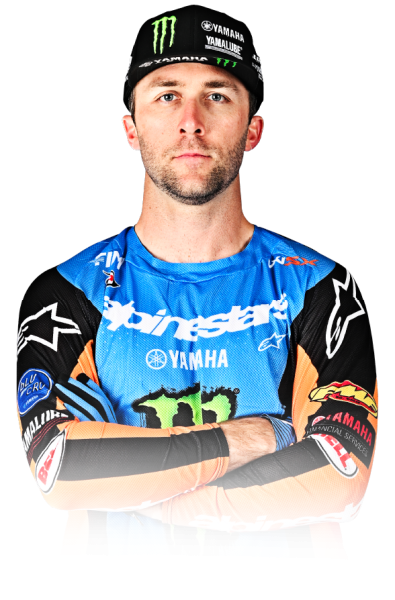
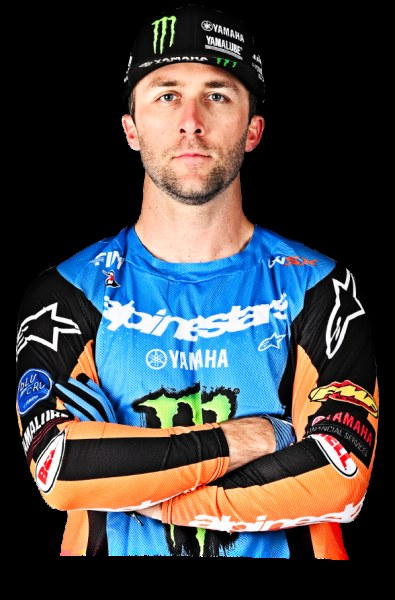
Refresh WSX rider portraits from the official championship site.
Download 2026 rider cards into static/riders/wsx and add a reusable sync script; Crockett Myers still has only a silhouette on WSX.

diff --git a/tools/download_wsx_rider_portraits.py b/tools/download_wsx_rider_portraits.py
@@ -1,0 +1,302 @@
+"""Download WSX rider cards from worldsupercrosschampionship.com into static/riders/wsx/.
+
+Also sets Rider.image_url for official WSX 2026 roster rows (local DB).
+"""
+from __future__ import annotations
+
+import os
+import re
+import sys
+import urllib.request
+from html import unescape
+from pathlib import Path
+from urllib.error import HTTPError, URLError
+
+os.environ.setdefault("PYTHONUTF8", "1")
+os.environ.setdefault("FLASK_ENV", "development")
+os.environ.setdefault("DATABASE_URL", "sqlite:///fantasy_mx_local.db")
+os.environ.pop("RENDER", None)
+
+BASE = "https://worldsupercrosschampionship.com"
+RIDERS_URL = f"{BASE}/riders/"
+OUT_DIR = Path("static/riders/wsx")
+UA = (
+    "Mozilla/5.0 (Windows NT 10.0; Win64; x64) AppleWebKit/537.36 "
+    "(KHTML, like Gecko) Chrome/124.0.0.0 Safari/537.36"
+)
+
+# Skip placeholders / non-rider media
+SKIP_NAME_FRAGMENTS = (
+    "silhouette",
+    "logo",
+    "asset-",
+    "g891",
+    "tc_logo",
+)
+
+# Official roster names we care about (match main._WSX_2026_ROSTER)
+ROSTER_NAMES = {
+    "Cooper Webb",
+    "Justin Hill",
+    "Joey Savatgy",
+    "Christian Craig",
+    "Jason Anderson",
+    "Colt Nichols",
+    "Vince Friese",
+    "Jorge Zaragoza",
+    "Greg Aranda",
+    "Kevin Moranz",
+    "Austin Politelli",
+    "Enzo Lopes",
+    "Luke Clout",
+    "Mitchell Harrison",
+    "Maxime Desprey",
+    "Jordi Tixier",
+    "Max Anstie",
+    "Devin Simonson",
+    "Shane McElrath",
+    "Cole Thompson",
+    "Calvin Fonvieille",
+    "Ryan Breece",
+    "Robbie Wageman",
+    "Henry Miller",
+    "Jake Cannon",
+    "Michael Hicks",
+    "Brian Hsu",
+    "Kyle Peters",
+    "Crockett Myers",
+    "Hector Assuncao",
+    "Nico Koch",
+    "Mike Alessi",
+    "Tom Vialle",
+    # On site but not in tippa roster — still download if present
+    "Cameron McAdoo",
+    "Brodie Connolly",
+}
+
+# Alternate spellings on WSX site → our DB name
+NAME_ALIASES = {
+    "hector assunção": "Hector Assuncao",
+    "hector assuncao": "Hector Assuncao",
+    "cameron mcadoo": "Cameron McAdoo",
+}
+
+
+def slug_nospace(name: str) -> str:
+    nl = (name or "").lower().strip().replace(".", "")
+    return "".join(c for c in nl if c.isalnum())
+
+
+def normalize_name(raw: str) -> str:
+    s = re.sub(r"\s+", " ", (raw or "").strip())
+    # Title case if jammed together: JasonAnderson → Jason Anderson
+    if " " not in s and re.search(r"[a-z][A-Z]", s):
+        s = re.sub(r"([a-z])([A-Z])", r"\1 \2", s)
+    key = s.lower()
+    if key in NAME_ALIASES:
+        return NAME_ALIASES[key]
+    # Match roster ignoring accents / punctuation
+    def fold(x: str) -> str:
+        x = x.lower()
+        for a, b in (("ã", "a"), ("á", "a"), ("ç", "c"), ("é", "e"), ("í", "i"), ("ó", "o"), ("ú", "u")):
+            x = x.replace(a, b)
+        return re.sub(r"[^a-z0-9]", "", x)
+
+    folded = fold(s)
+    for official in ROSTER_NAMES:
+        if fold(official) == folded:
+            return official
+    return s
+
+
+def fetch(url: str) -> bytes:
+    req = urllib.request.Request(url, headers={"User-Agent": UA, "Accept": "*/*"})
+    with urllib.request.urlopen(req, timeout=60) as resp:
+        return resp.read()
+
+
+def abs_url(u: str) -> str:
+    u = unescape(u.strip())
+    if u.startswith("//"):
+        return "https:" + u
+    if u.startswith("/"):
+        return BASE + u
+    return u
+
+
+def fullsize_candidates(url: str) -> list[str]:
+    """Prefer original upload over WP resized -396x600 variants."""
+    out: list[str] = []
+    u = abs_url(url)
+    out.append(u)
+    stripped = re.sub(r"-\d+x\d+(?=\.(?:png|jpe?g|webp))", "", u, flags=re.I)
+    if stripped != u:
+        out.insert(0, stripped)
+    # also try .jpg if .png card
+    return list(dict.fromkeys(out))
+
+
+def parse_rider_cards(html: str) -> dict[str, str]:
+    """name -> headshot URL from riders listing."""
+    mapping: dict[str, str] = {}
+    # Each rider-entry article
+    for block in re.findall(
+        r'<article[^>]*class="[^"]*rider-entry[^"]*"[\s\S]*?</article>',
+        html,
+        flags=re.I,
+    ):
+        title_m = re.search(r'title="([^"]+)"', block)
+        name_m = re.search(
+            r'class="rider-entry-name[^"]*"[^>]*>\s*<[^>]+>\s*([^<]+)',
+            block,
+            flags=re.I,
+        )
+        # fallback: permalink title or h3 text
+        name = None
+        if title_m:
+            name = title_m.group(1)
+        if not name and name_m:
+            name = name_m.group(1)
+        if not name:
+            h = re.search(r"<h[123][^>]*>(.*?)</h[123]>", block, flags=re.I | re.S)
+            if h:
+                name = re.sub(r"<[^>]+>", "", h.group(1))
+        if not name:
+            continue
+        name = normalize_name(unescape(name))
+
+        img_m = re.search(
+            r'class="rider-entry-headshot"[^>]*>\s*<img[^>]+src="([^"]+)"',
+            block,
+            flags=re.I,
+        )
+        if not img_m:
+            img_m = re.search(
+                r'rider-entry-headshot[\s\S]{0,400}?src="([^"]+\.(?:png|jpe?g|webp)[^"]*)"',
+                block,
+                flags=re.I,
+            )
+        if not img_m:
+            continue
+        src = abs_url(img_m.group(1))
+        low = src.lower()
+        if any(s in low for s in SKIP_NAME_FRAGMENTS):
+            # Keep silhouette mapped only if we have nothing else — mark skip
+            continue
+        mapping[name] = src
+    return mapping
+
+
+def download_best(url: str) -> tuple[bytes, str] | None:
+    last_err = None
+    for cand in fullsize_candidates(url):
+        try:
+            data = fetch(cand)
+            if len(data) < 2000:
+                continue
+            # Always store as real JPEG for `slug (1).jpg` convention
+            from io import BytesIO
+
+            from PIL import Image
+
+            im = Image.open(BytesIO(data)).convert("RGB")
+            buf = BytesIO()
+            im.save(buf, format="JPEG", quality=88, optimize=True)
+            return buf.getvalue(), ".jpg"
+        except (HTTPError, URLError, TimeoutError, OSError) as e:
+            last_err = e
+            continue
+    if last_err:
+        print(f"  [fail] {url}: {last_err}")
+    return None
+
+
+def main() -> int:
+    print(f"Fetching {RIDERS_URL} ...")
+    html = fetch(RIDERS_URL).decode("utf-8", "replace")
+    cards = parse_rider_cards(html)
+    print(f"Parsed {len(cards)} rider cards with photos")
+    for n, u in sorted(cards.items()):
+        print(f"  {n}: {u}")
+
+    OUT_DIR.mkdir(parents=True, exist_ok=True)
+    saved: dict[str, str] = {}  # name -> relative path riders/wsx/...
+
+    for name, url in sorted(cards.items()):
+        slug = slug_nospace(name)
+        # Keep app convention: "<slug> (1).jpg" (even for png source — convert name)
+        # Prefer writing actual extension that browsers accept; frontend tries .jpg first
+        # so we save as .jpg filename when possible by keeping png bytes under .jpg only if jpeg,
+        # else save real ext AND a (1).jpg copy isn't needed if we also set image_url.
+        result = download_best(url)
+        if not result:
+            print(f"[SKIP] no image for {name}")
+            continue
+        data, ext = result
+        primary = OUT_DIR / f"{slug} (1).jpg"
+        primary.write_bytes(data)
+        # Drop legacy numbered variants so tippa always hits the new (1).jpg
+        for old in OUT_DIR.glob(f"{slug} (*).*"):
+            if old.resolve() != primary.resolve():
+                try:
+                    old.unlink()
+                except OSError:
+                    pass
+        # Drop underscore-slug duplicate (cole_thompson vs colethompson)
+        underscore = "".join(
+            c if c.isalnum() else "_" for c in name.lower().replace(".", "")
+        ).strip("_")
+        underscore = re.sub(r"_+", "_", underscore)
+        if underscore and underscore != slug:
+            for old in OUT_DIR.glob(f"{underscore} (*).*"):
+                try:
+                    old.unlink()
+                except OSError:
+                    pass
+        rel = f"riders/wsx/{slug} (1).jpg"
+        saved[name] = rel
+        print(f"[OK] {name} -> {primary.name} ({len(data)} bytes)")
+
+    missing_roster = sorted(n for n in ROSTER_NAMES if n not in saved and n in {
+        "Cooper Webb", "Justin Hill", "Joey Savatgy", "Christian Craig", "Jason Anderson",
+        "Colt Nichols", "Vince Friese", "Jorge Zaragoza", "Greg Aranda", "Kevin Moranz",
+        "Austin Politelli", "Enzo Lopes", "Luke Clout", "Mitchell Harrison", "Maxime Desprey",
+        "Jordi Tixier", "Max Anstie", "Devin Simonson", "Shane McElrath", "Cole Thompson",
+        "Calvin Fonvieille", "Ryan Breece", "Robbie Wageman", "Henry Miller", "Jake Cannon",
+        "Michael Hicks", "Brian Hsu", "Kyle Peters", "Crockett Myers", "Hector Assuncao",
+        "Nico Koch", "Mike Alessi", "Tom Vialle",
+    })
+    print("\nRoster without WSX site photo:", ", ".join(missing_roster) or "(none)")
+
+    # Update local DB image_url for WSX riders
+    root = Path(__file__).resolve().parents[1]
+    if str(root) not in sys.path:
+        sys.path.insert(0, str(root))
+    from main import app
+    from models import Rider, db
+
+    updated = 0
+    with app.app_context():
+        for name, rel in saved.items():
+            rows = (
+                Rider.query.filter(
+                    Rider.name == name,
+                    Rider.class_name.in_(("wsx_sx1", "wsx_sx2")),
+                ).all()
+            )
+            for r in rows:
+                # Prefer static path; clear blob so file is used
+                if (r.image_url or "").strip() != rel:
+                    r.image_url = rel
+                    updated += 1
+                if getattr(r, "rider_image_data", None):
+                    r.rider_image_data = None
+                    updated += 1
+        db.session.commit()
+    print(f"DB rows touched: {updated}")
+    print(f"Files in {OUT_DIR}: {len(list(OUT_DIR.glob('*')))}")
+    return 0
+
+
+if __name__ == "__main__":
+    raise SystemExit(main())
